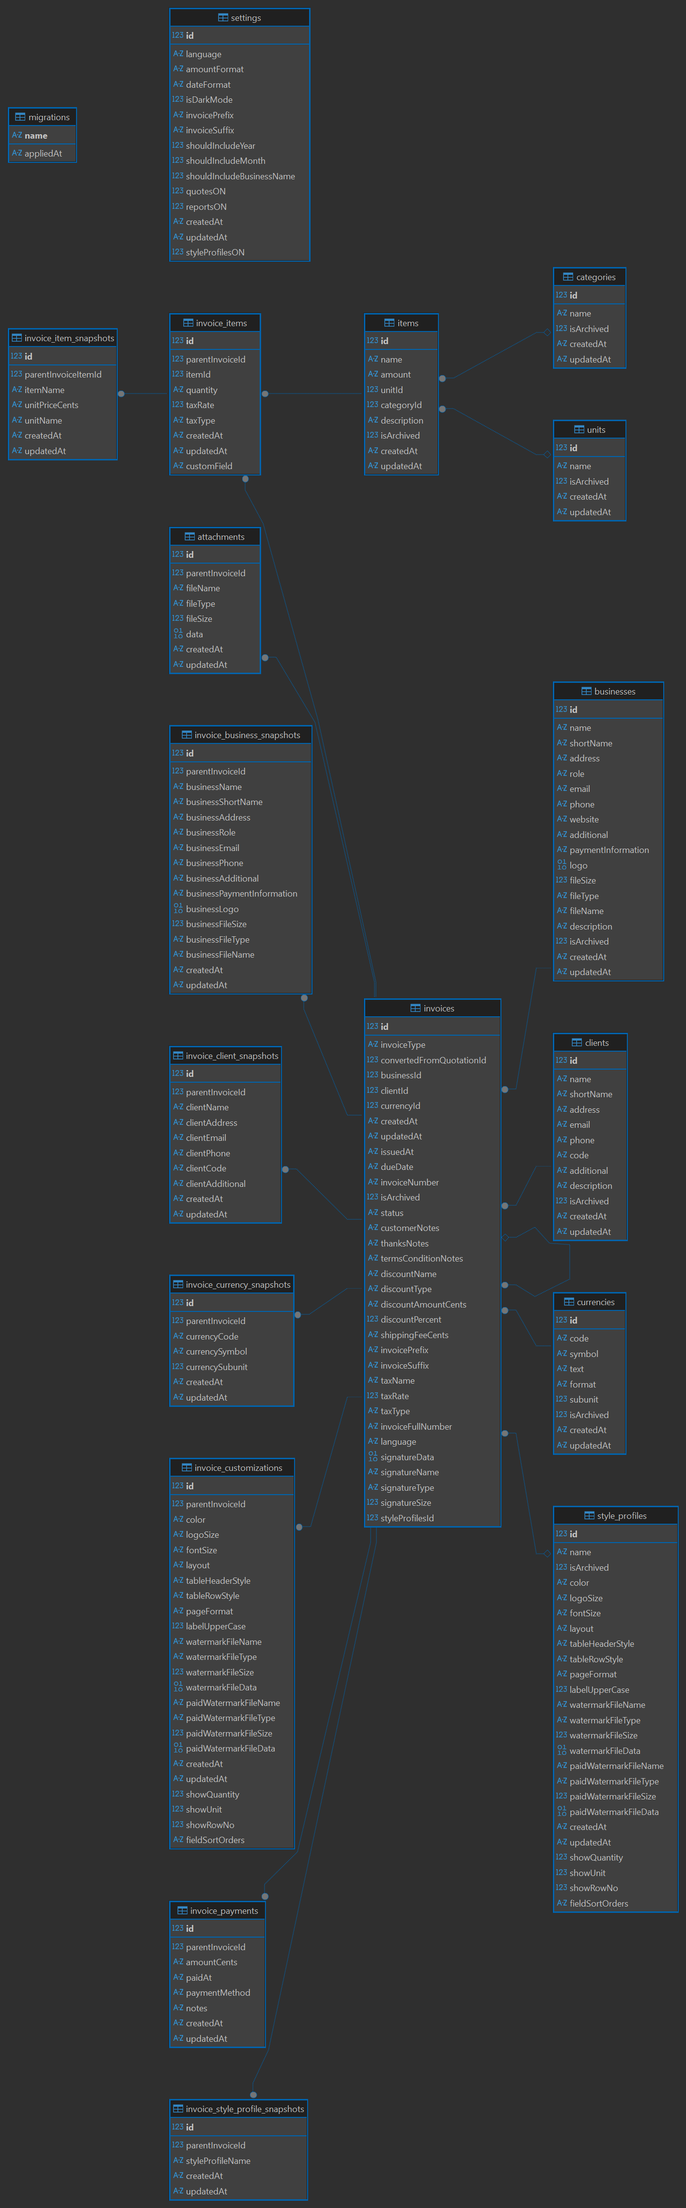
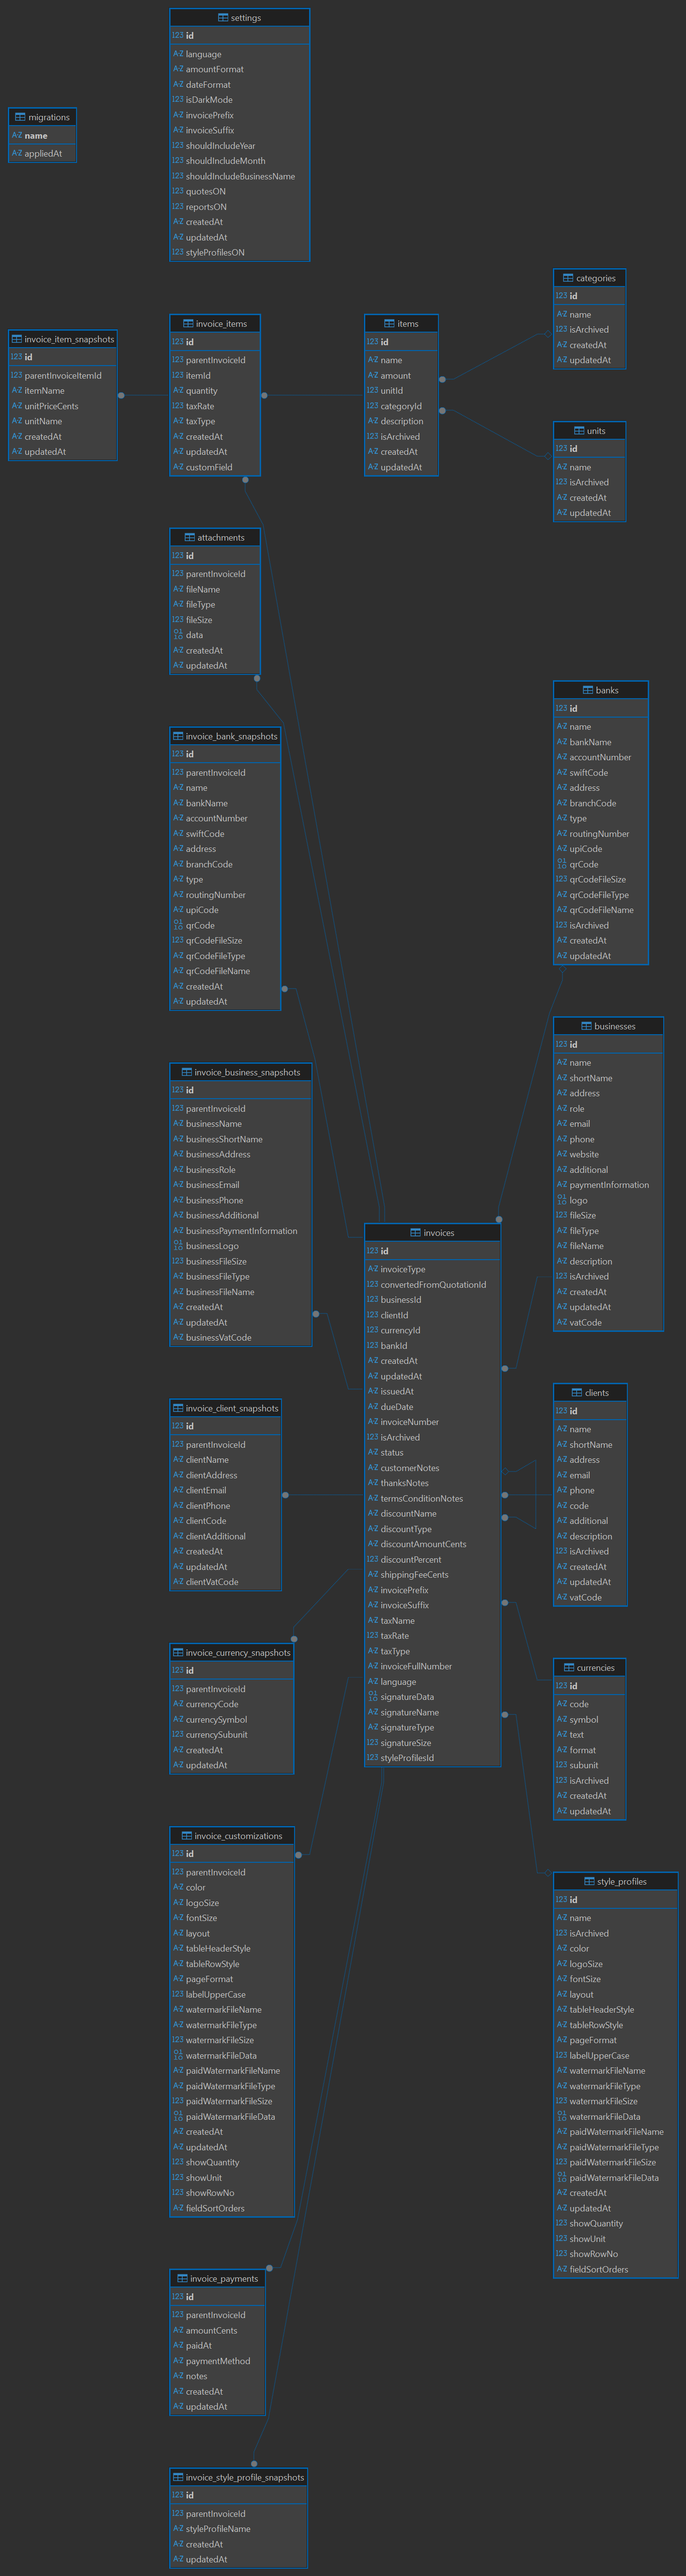
cleanup

diff --git a/src/backend/shared/migrations/20260203-08-customize-items-table.ts b/src/backend/shared/migrations/20260203-08-customize-items-table.ts
@@ -11,43 +11,43 @@ export const up = async (db: DatabaseAdapter) => {
     await db.run(
       `
         ALTER TABLE style_profiles
-        ADD COLUMN IF NOT EXISTS "showQuantity" INTEGER NOT NULL DEFAULT 1 CHECK ("showQuantity" IN (0,1))
+        ADD COLUMN "showQuantity" INTEGER NOT NULL DEFAULT 1 CHECK ("showQuantity" IN (0,1))
       `
     );
     await db.run(
       `
         ALTER TABLE style_profiles
-        ADD COLUMN IF NOT EXISTS "showUnit" INTEGER NOT NULL DEFAULT 1 CHECK ("showUnit" IN (0,1))
+        ADD COLUMN "showUnit" INTEGER NOT NULL DEFAULT 1 CHECK ("showUnit" IN (0,1))
       `
     );
     await db.run(
       `
         ALTER TABLE style_profiles
-        ADD COLUMN IF NOT EXISTS "showRowNo" INTEGER NOT NULL DEFAULT 1 CHECK ("showRowNo" IN (0,1))
+        ADD COLUMN "showRowNo" INTEGER NOT NULL DEFAULT 1 CHECK ("showRowNo" IN (0,1))
       `
     );
     await db.run(
       `
         ALTER TABLE invoice_customizations
-        ADD COLUMN IF NOT EXISTS "showQuantity" INTEGER NOT NULL DEFAULT 1 CHECK ("showQuantity" IN (0,1))
+        ADD COLUMN "showQuantity" INTEGER NOT NULL DEFAULT 1 CHECK ("showQuantity" IN (0,1))
       `
     );
     await db.run(
       `
         ALTER TABLE invoice_customizations
-        ADD COLUMN IF NOT EXISTS "showUnit" INTEGER NOT NULL DEFAULT 1 CHECK ("showUnit" IN (0,1))
+        ADD COLUMN "showUnit" INTEGER NOT NULL DEFAULT 1 CHECK ("showUnit" IN (0,1))
       `
     );
     await db.run(
       `
         ALTER TABLE invoice_customizations
-        ADD COLUMN IF NOT EXISTS "showRowNo" INTEGER NOT NULL DEFAULT 1 CHECK ("showRowNo" IN (0,1))
+        ADD COLUMN "showRowNo" INTEGER NOT NULL DEFAULT 1 CHECK ("showRowNo" IN (0,1))
       `
     );
     await db.run(
       `
         ALTER TABLE invoice_items
-        ADD COLUMN IF NOT EXISTS "customField" TEXT;
+        ADD COLUMN "customField" TEXT;
       `
     );
   } catch (error) {

diff --git a/src/backend/shared/migrations/20260209-11-custom-fields-order.ts b/src/backend/shared/migrations/20260209-11-custom-fields-order.ts
@@ -24,13 +24,13 @@ export const up = async (db: DatabaseAdapter) => {
     await db.run(
       `
         ALTER TABLE style_profiles
-        ADD COLUMN IF NOT EXISTS "fieldSortOrders" TEXT NOT NULL DEFAULT '{"no":0,"item":1,"unit":2,"quantity":3,"unitCost":4,"total":5}';
+        ADD COLUMN "fieldSortOrders" TEXT NOT NULL DEFAULT '{"no":0,"item":1,"unit":2,"quantity":3,"unitCost":4,"total":5}';
       `
     );
     await db.run(
       `
         ALTER TABLE invoice_customizations
-        ADD COLUMN IF NOT EXISTS "fieldSortOrders" TEXT NOT NULL DEFAULT '{"no":0,"item":1,"unit":2,"quantity":3,"unitCost":4,"total":5}';
+        ADD COLUMN "fieldSortOrders" TEXT NOT NULL DEFAULT '{"no":0,"item":1,"unit":2,"quantity":3,"unitCost":4,"total":5}';
       `
     );
     return { success: true };

diff --git a/src/backend/shared/migrations/20260212-13-vat-code-fields.ts b/src/backend/shared/migrations/20260212-13-vat-code-fields.ts
@@ -11,25 +11,25 @@ export const up = async (db: DatabaseAdapter) => {
     await db.run(
       `
         ALTER TABLE clients
-        ADD COLUMN IF NOT EXISTS "vatCode" TEXT
+        ADD COLUMN "vatCode" TEXT
       `
     );
     await db.run(
       `
         ALTER TABLE businesses
-        ADD COLUMN IF NOT EXISTS "vatCode" TEXT
+        ADD COLUMN "vatCode" TEXT
       `
     );
     await db.run(
       `
         ALTER TABLE invoice_business_snapshots
-        ADD COLUMN IF NOT EXISTS "businessVatCode" TEXT
+        ADD COLUMN "businessVatCode" TEXT
       `
     );
     await db.run(
       `
         ALTER TABLE invoice_client_snapshots
-        ADD COLUMN IF NOT EXISTS "clientVatCode" TEXT
+        ADD COLUMN "clientVatCode" TEXT
       `
     );
   } catch (error) {

diff --git a/History.md b/History.md
@@ -1,22 +1,23 @@
 # Invoice Builder
 
-## [DATE], version 2.0.0
+## 2026-02-12, version 2.0.0
 
 New features & improvements
 
-- Added validations for custom header sections (which now will be presented in UI)
-- Prefiling custom header section data from last used if selected from existing one (sort order, alignment)
+- Added dedicated VAT fields for both businesses and clients
+- Introduced validations for custom header sections (now visible in the UI)
+- Implemented pre‑filling of custom header section data from the last used configuration when selecting an existing one (including sort order and alignment)
 - Added a tooltip explaining why the Save button is disabled when an invoice or quote is invalid
 - Added a visual "\*" indicator to highlight required fields in invoices and quotes
 - Added collapsible sections to the main menu, allowing related items to be grouped for a cleaner and more organized navigation experience
-- Introduced Banks as the new source of payment information. This is a breaking change:
+- Introduced Banks as the new source of payment information - breaking change:
   - The previous Business → PaymentInformation field is now considered legacy and becomes read‑only
-  - Invoices and quotes created prior to this release will continue using the legacy field to preserve existing data. These documents will also retain the legacy Classic / Modern / Compact layouts
+  - Invoices and quotes created prior to this release will continue using the legacy field to preserve existing data; these documents will also retain the legacy Classic, Modern / Compact layouts
   - All newly created invoices and quotes must use the new Banks payment information structure
 
 Bug Fixes
 
-- Fixed an issue which showed "save" button as active for empty invoice/quote
+- Fixed an issue where the Save button appeared active for empty invoices/quotes
 
 ## 2026-02-09, version 1.7.0
 
